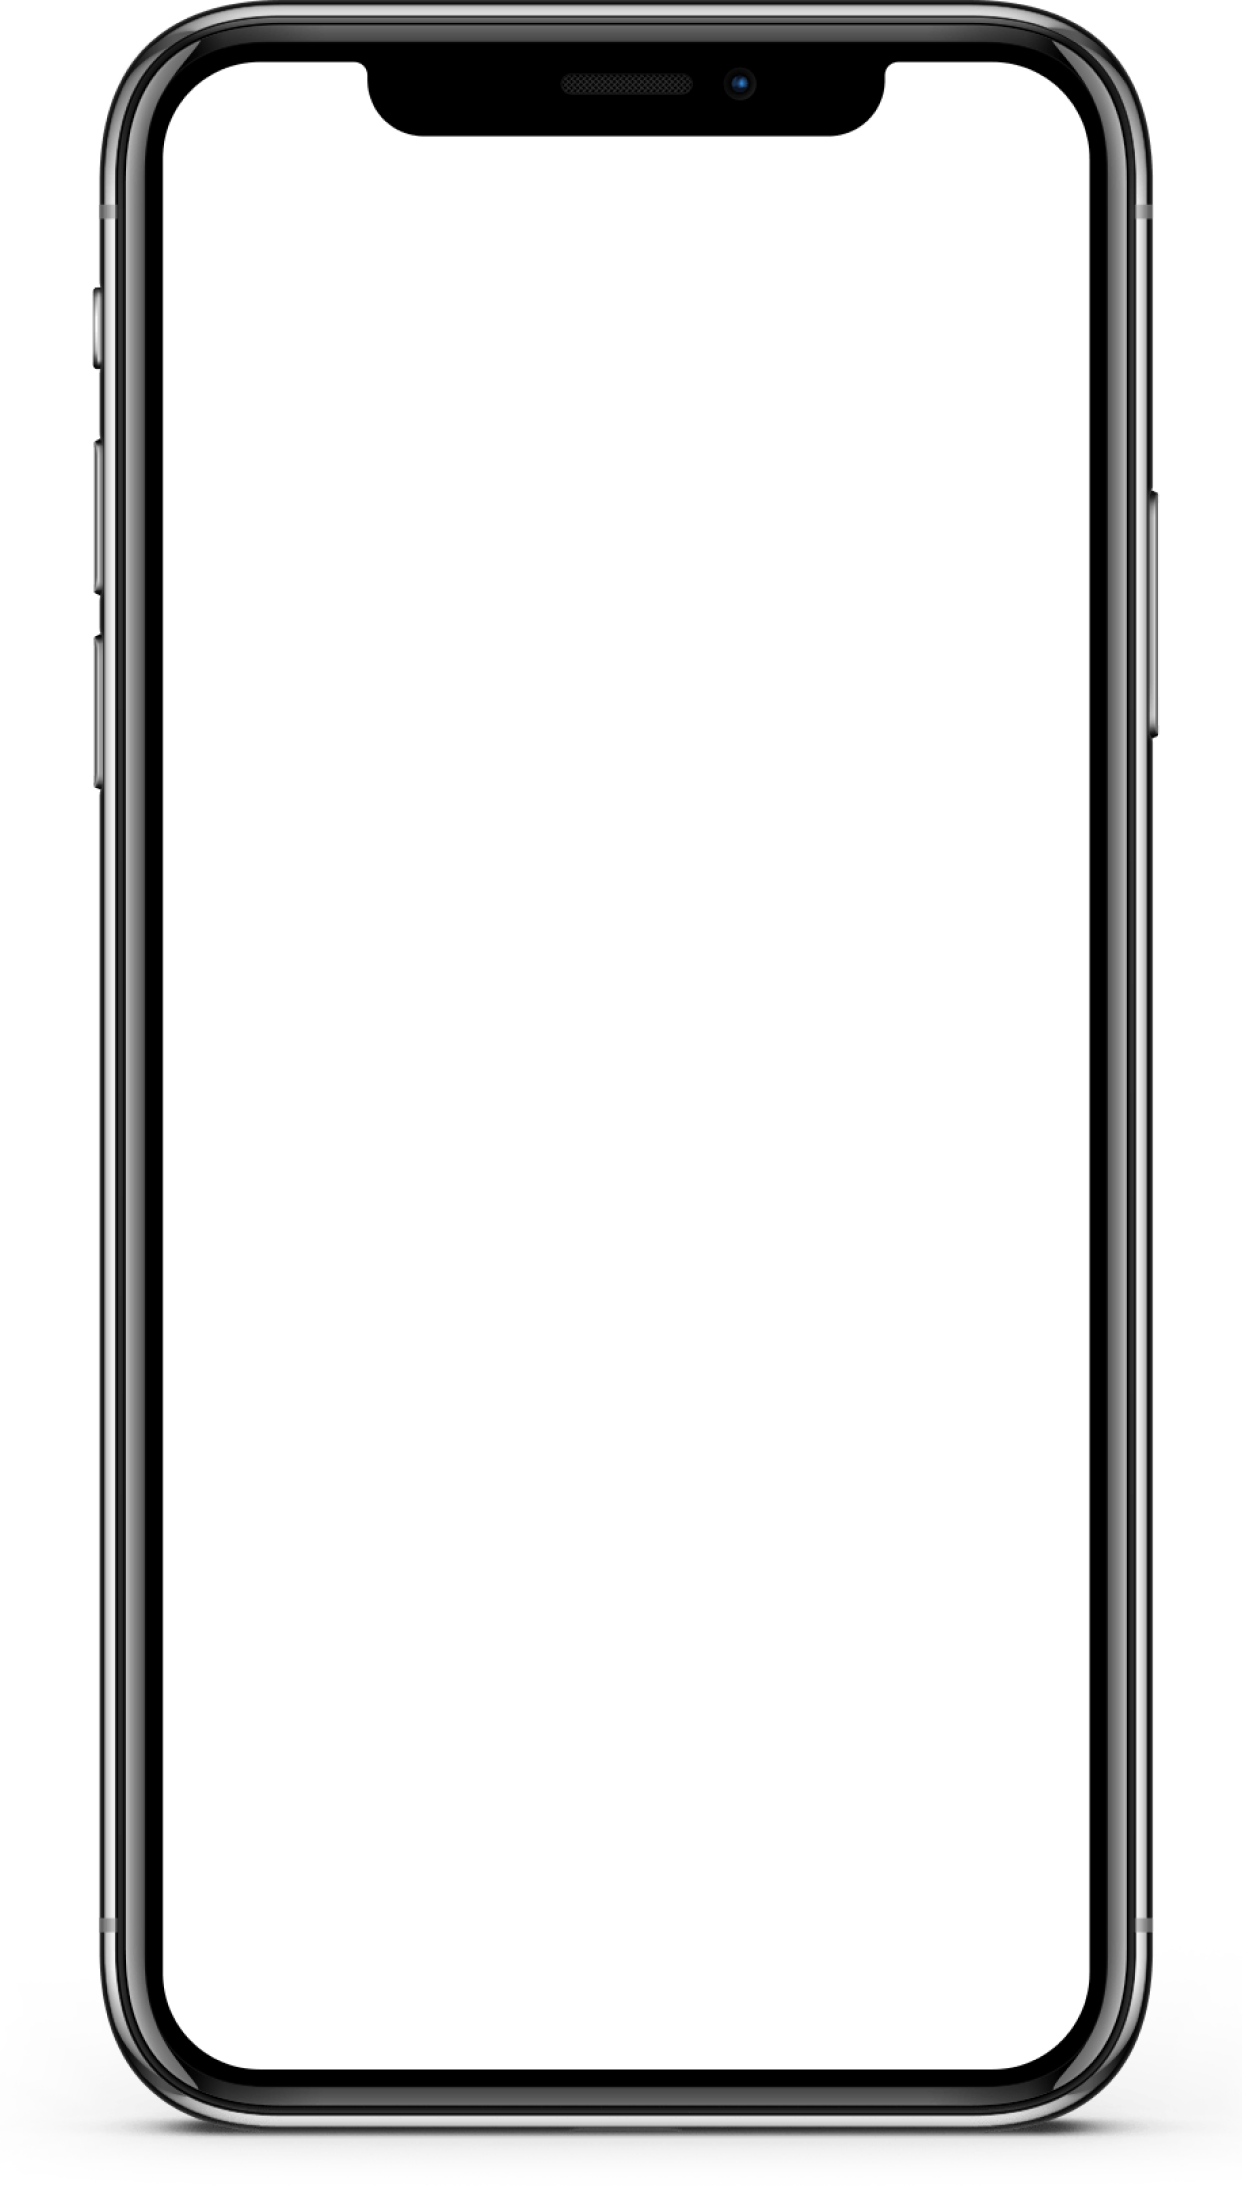
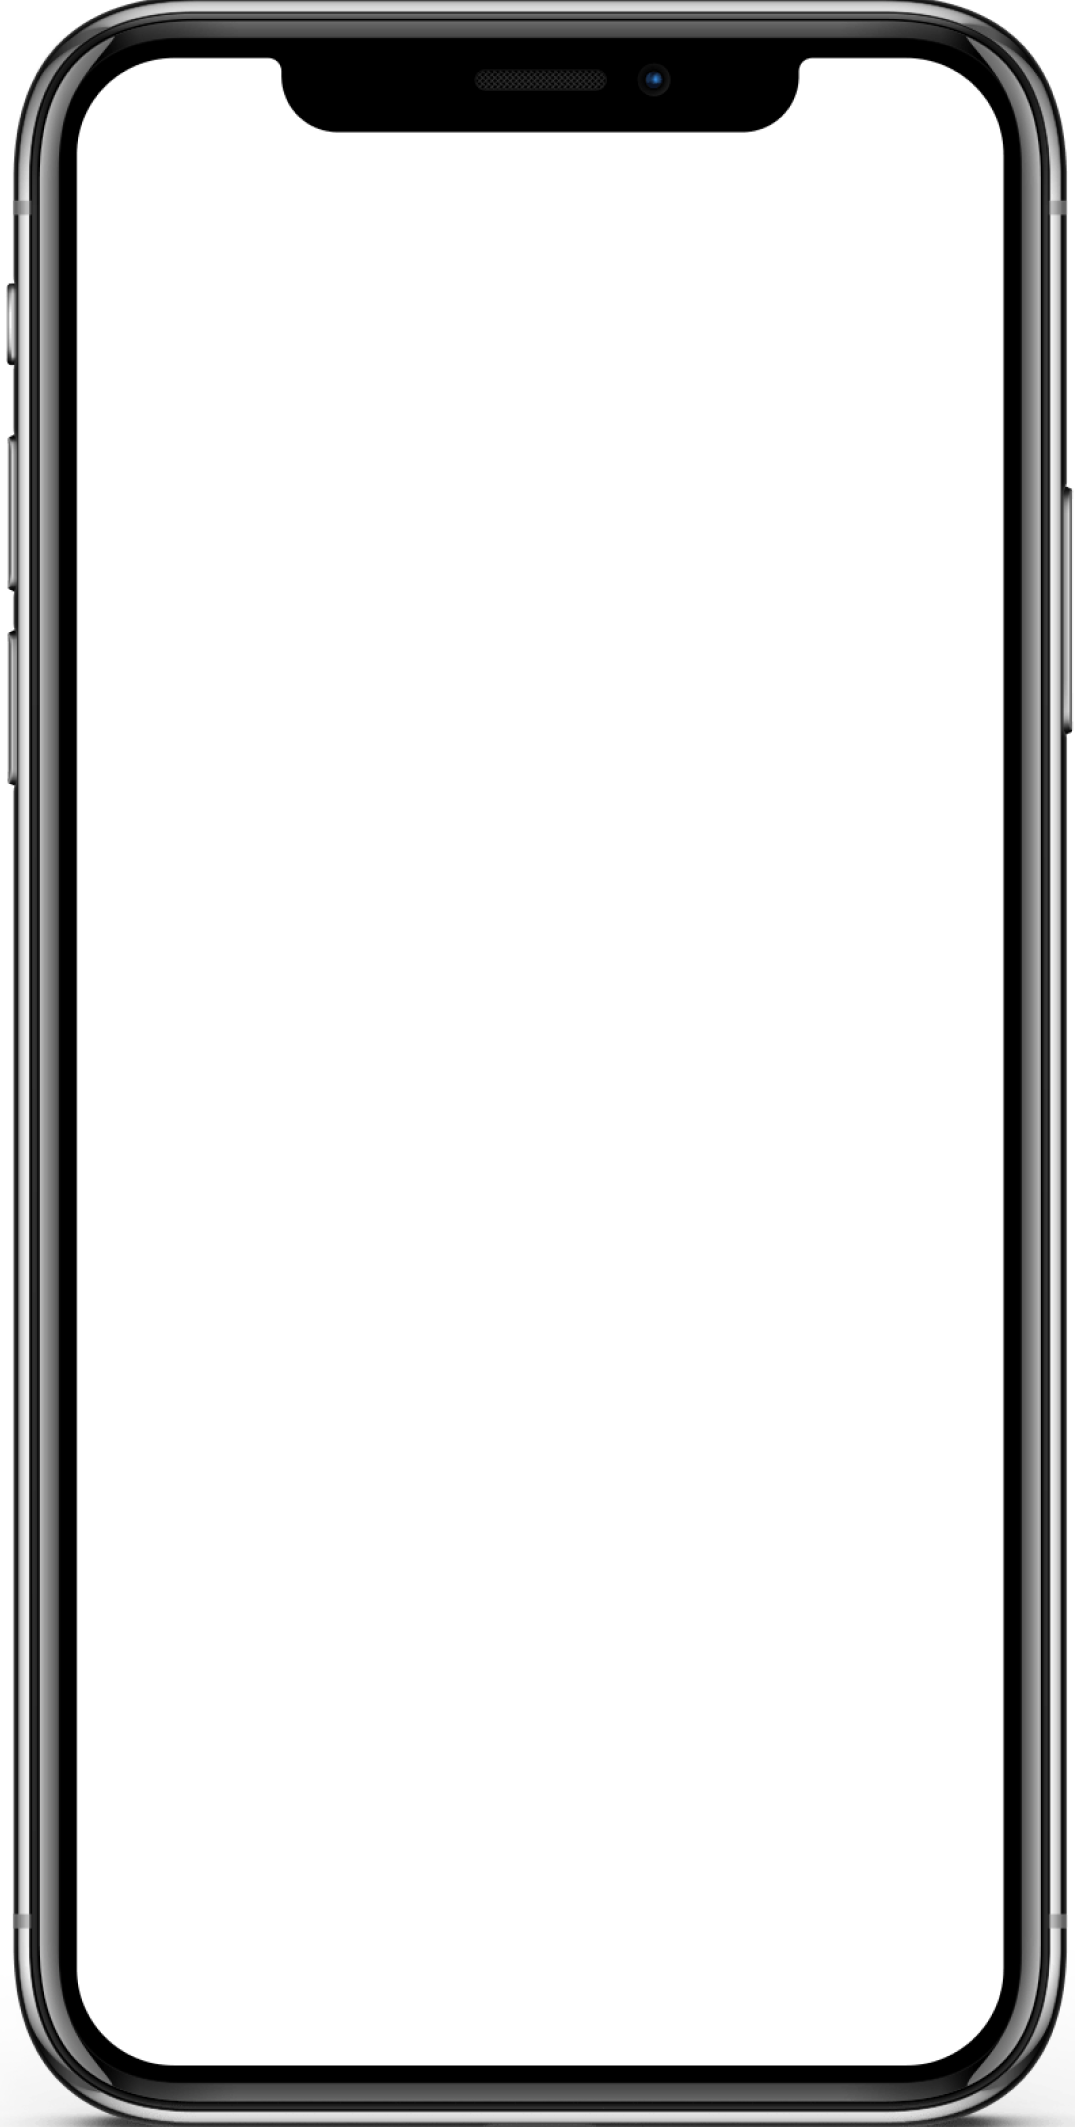
chore: center images and device frame in iphone 6.5

Changed region(s): [[0.0, 0.0, 1.0, 1.0]]

diff --git a/templates/ios.js b/templates/ios.js
@@ -5,11 +5,30 @@ const {log} = require('../utils/log.js')
 const { FOLDER_SCREEENSHOT, PATH_ASSETS_IOS_MOBILE_6_5, PATH_ASSETS_IOS_MOBILE_5_5, PATH_ASSETS_IOS_TABLET_12_2ND, PATH_ASSETS_IOS_TABLET_12_3RD, PATH_RESULT } = require('../constants');
 
 async function generateMobile_ios_6_5() {
-  console.log('🏗  Creating assets devices 6.5 📱');
-  const bg = await jimp.read(`${PATH_ASSETS_IOS_MOBILE_6_5}/bg.png`);
+  log('Creating assets devices 6.5 📱');
+  const backgroud = await jimp.read(`${PATH_ASSETS_IOS_MOBILE_6_5}/bg.png`);
+
   const device = await jimp.read(`${PATH_ASSETS_IOS_MOBILE_6_5}/device.png`);
-  const filesMobile = []
-  const pathPrintMobile = await getFilesPath(FOLDER_SCREEENSHOT)
+
+  const filesMobile = [];
+
+  const pathPrintMobile = await getFilesPath(FOLDER_SCREEENSHOT);
+
+  const backgroudSize = [backgroud.bitmap.width, backgroud.bitmap.height];
+
+  const deviceSize = [device.bitmap.width, device.bitmap.height];
+
+  const screenSize = [942, 2016];
+
+  const imageCenter = [
+    backgroudSize[0] / 2 - deviceSize[0] / 2, 
+    backgroudSize[1] / 2 - deviceSize[1] / 2
+  ];
+
+  const deviceFrame = [
+    backgroudSize[0] / 2 - (deviceSize[0] - (deviceSize[0] - screenSize[0])) / 2, 
+    backgroudSize[1] / 2 - (deviceSize[1] - (deviceSize[1] - screenSize[1])) / 2
+  ];
 
   for (const path of pathPrintMobile) {
     filesMobile.push(jimp.read(`${FOLDER_SCREEENSHOT}/${path}`))
@@ -17,16 +36,16 @@ async function generateMobile_ios_6_5() {
 
   Promise.all(filesMobile).then(() => {
     return Promise.all(filesMobile)
-  }).then((data) => {
-    for (let index = 0; index < data.length; index++) {
-      data[index].resize(950, jimp.AUTO);
-      bg.composite(data[index], 150, 120)
-      bg.composite(device, 0, 100)
-      bg.normalize()
-      bg.write(`${PATH_RESULT}/ios/mobile-6.5/mobile6_5-${index}.jpg`);
-      console.log(`[${index + 1}/${data.length}] Asset mobile6_5-${index}.jpg created`);
+  }).then((screenshots) => {
+    for (let index = 0; index < screenshots.length; index++) {
+      screenshots[index].resize(screenSize[0], screenSize[1]);
+      backgroud.composite(screenshots[index], deviceFrame[0], deviceFrame[1]);
+      backgroud.composite(device, imageCenter[0], imageCenter[1]);
+      backgroud.normalize()
+      backgroud.write(`${PATH_RESULT}/ios/mobile-6.5/mobile6_5-${index}.jpg`);
+      console.log(`[${index + 1}/${screenshots.length}] Asset mobile6_5-${index}.jpg created`);
     }
-    console.log('✅  Assets devices 6.5 completed');
+    log('Assets devices 6.5 completed', 'success');
   })
 }
 

diff --git a/index.js b/index.js
@@ -19,7 +19,7 @@ async function main() {
       break;
     case 2:
       await generateMobile_ios_5_5();
-      // await generateMobile_ios_6_5();
+      await generateMobile_ios_6_5();
       // await generateTablet_ios_12_9_2nd();
       // await generateTablet_ios_12_9_3rd();
       break;
